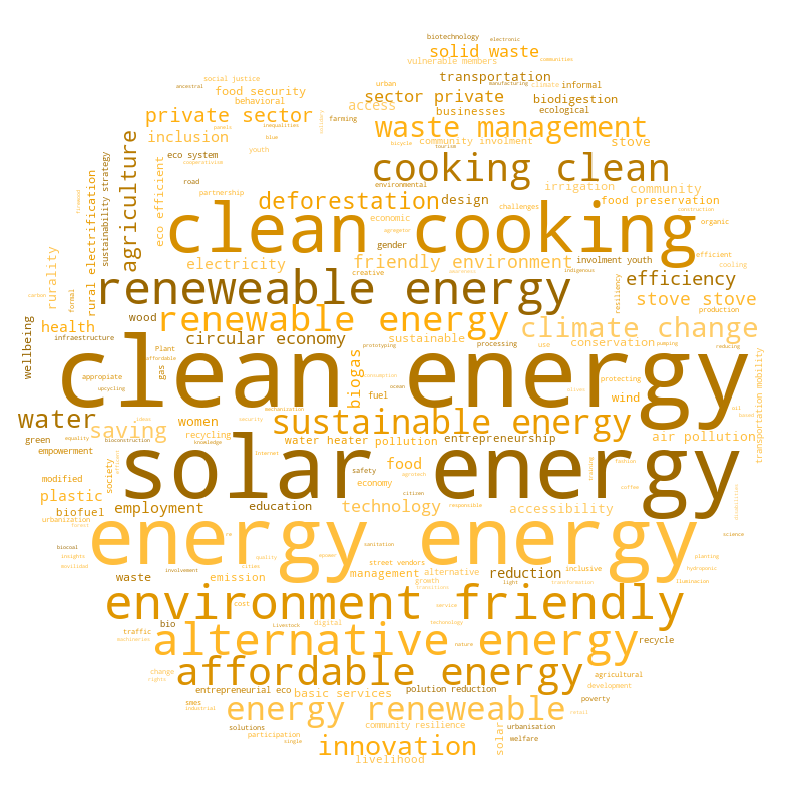
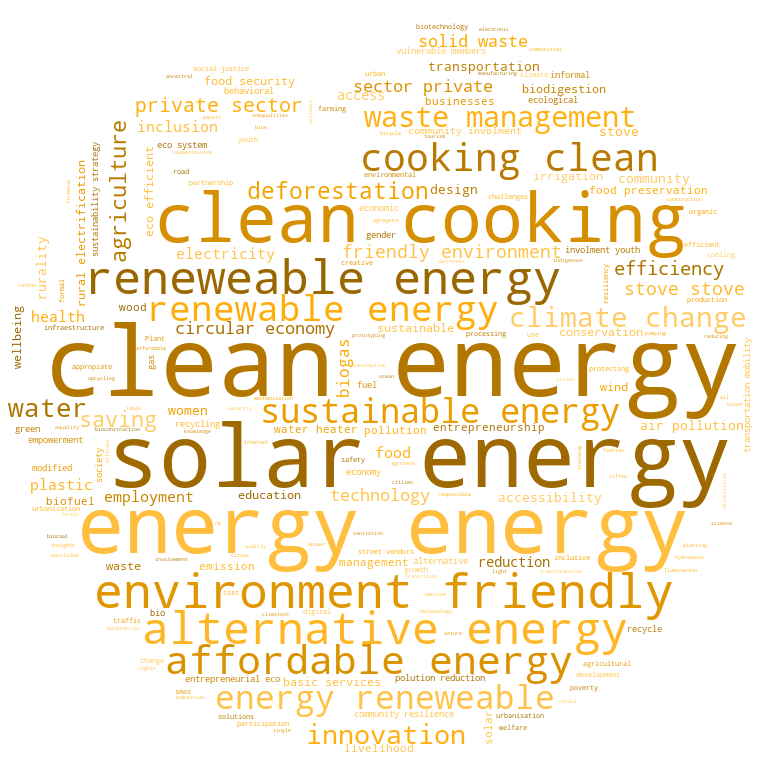
Resolved issues with wordcloud display

Changed region(s): [[0.0, 0.0312, 0.9948, 0.9987]]

diff --git a/dashboard.py b/dashboard.py
@@ -239,10 +239,7 @@ wordcloud = WordCloud(stopwords=STOPWORDS,
                      random_state=42,
                      color_func=similar_color)
 wordcloud.generate(list_of_tags)
-plt.figure(figsize=(10,10))
-plt.imshow(wordcloud, interpolation='None',)
-plt.axis('off')
-plt.savefig('wordcloud.png', bbox_inches = 'tight')
+wordcloud = wordcloud.to_file("wordcloud.png")
 
 col_7, col_8, col_9 = st.columns([1,2,1])
 with col_7:
